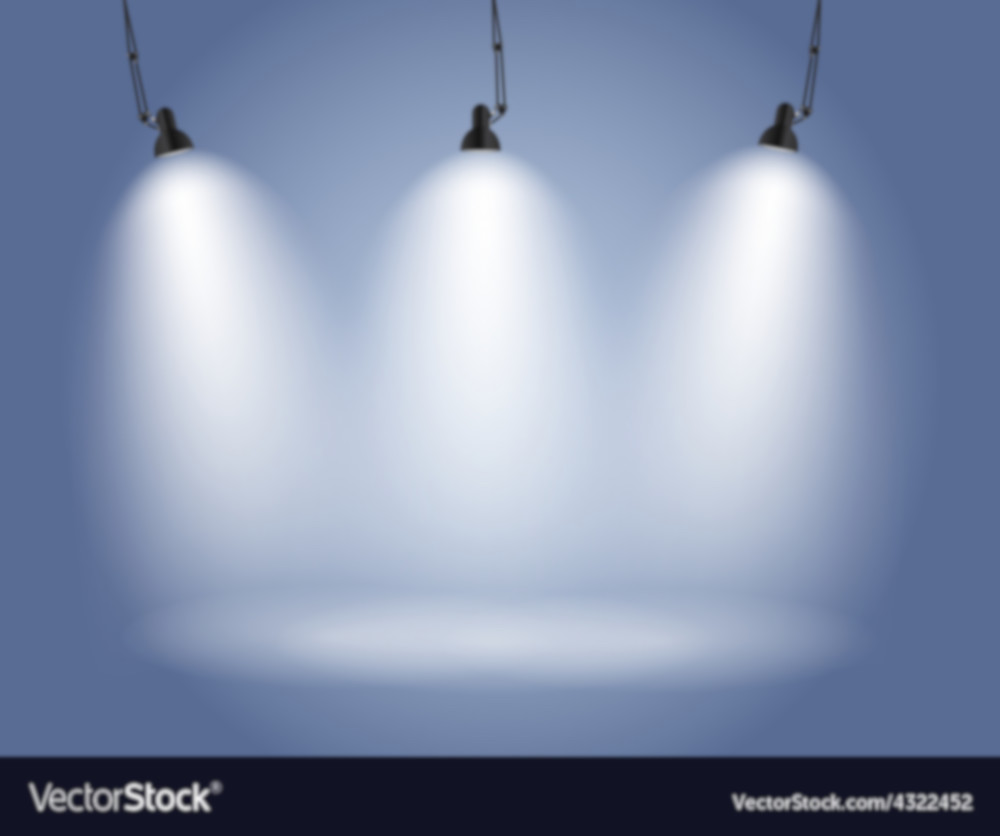
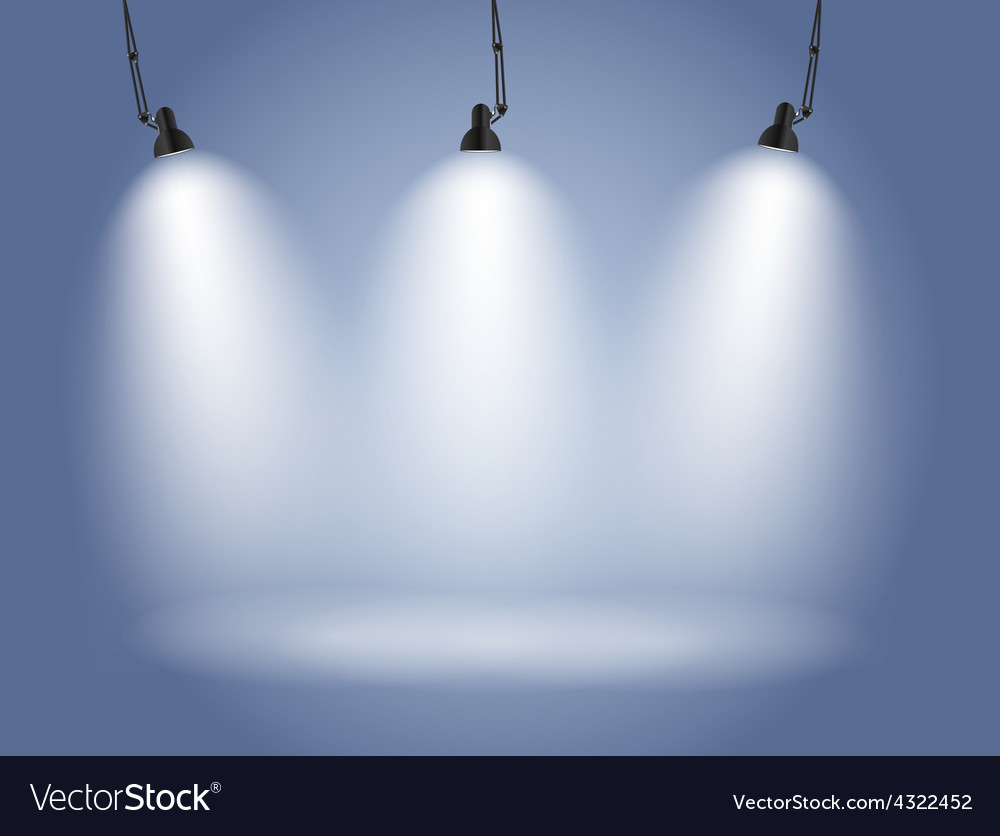
Heroku setup.

diff --git a/templates/index.html b/templates/index.html
@@ -68,6 +68,27 @@
             </div>
             <div class="col-md-3">
                 <div class="well">
+                    <h5>Select Genre:</h5>
+                    <select id="selGenre">
+                        <option value=“Drama”>Drama</option>
+                        <option value=“Comedy”>Comedy</option>
+                        <option value=“Drama”>Thriller</option>
+                        <option value=“Drama”>Action</option>
+                        <option value=“Drama”>Romance</option>
+                        <option value=“Drama”>Adventure</option>
+                        <option value=“Drama”>Crime</option>
+                        <option value=“Drama”>Fantasy</option>
+                        <option value=“Drama”>Sci-Fi</option>
+                        <option value=“Drama”>Family</option>
+                        <option value=“Drama”>Horror</option>
+                        <option value=“Drama”>Mystery</option>
+                        <option value=“Drama”>Biography</option>
+                        <option value=“Drama”>Animation</option>
+                    </select>
+                </div>
+            </div>
+            <div class="col-md-3">
+                <div class="well">
                     <h5>Enter Budget:</h5>
                     <input id="inputBudget" />
                 </div>

diff --git a/static/css/style.css b/static/css/style.css
@@ -1,5 +1,5 @@
 body {
-    background-image: url('/static/Images/background-with-lighting-lamp.jpg');
+    background-image: url('/static/Images/background-with-lighting-lamp-crop.png');
     background-repeat: repeat-x;
 }
 

diff --git a/imdb-model-app.py b/imdb-model-app.py
@@ -120,8 +120,8 @@ def content_rating():
     return jsonify(content_ratings)
 
 
-@app.route("/predict/<director_likes>/<actor_1_likes>/<actor_2_likes>/<actor_3_likes>/<cr>/<duration>/<budget>")
-def predict(director_likes, actor_1_likes, actor_2_likes, actor_3_likes, cr, duration, budget):
+@app.route("/predict/<director_likes>/<actor_1_likes>/<actor_2_likes>/<actor_3_likes>/<cr>/<duration>/<genre>/<budget>")
+def predict(director_likes, actor_1_likes, actor_2_likes, actor_3_likes, cr, duration, genre, budget):
 
     (content_rating_G, content_rating_NC_17, content_rating_PG, content_rating_PG_13, content_rating_R) = (0, 0, 0, 0, 0)
 
